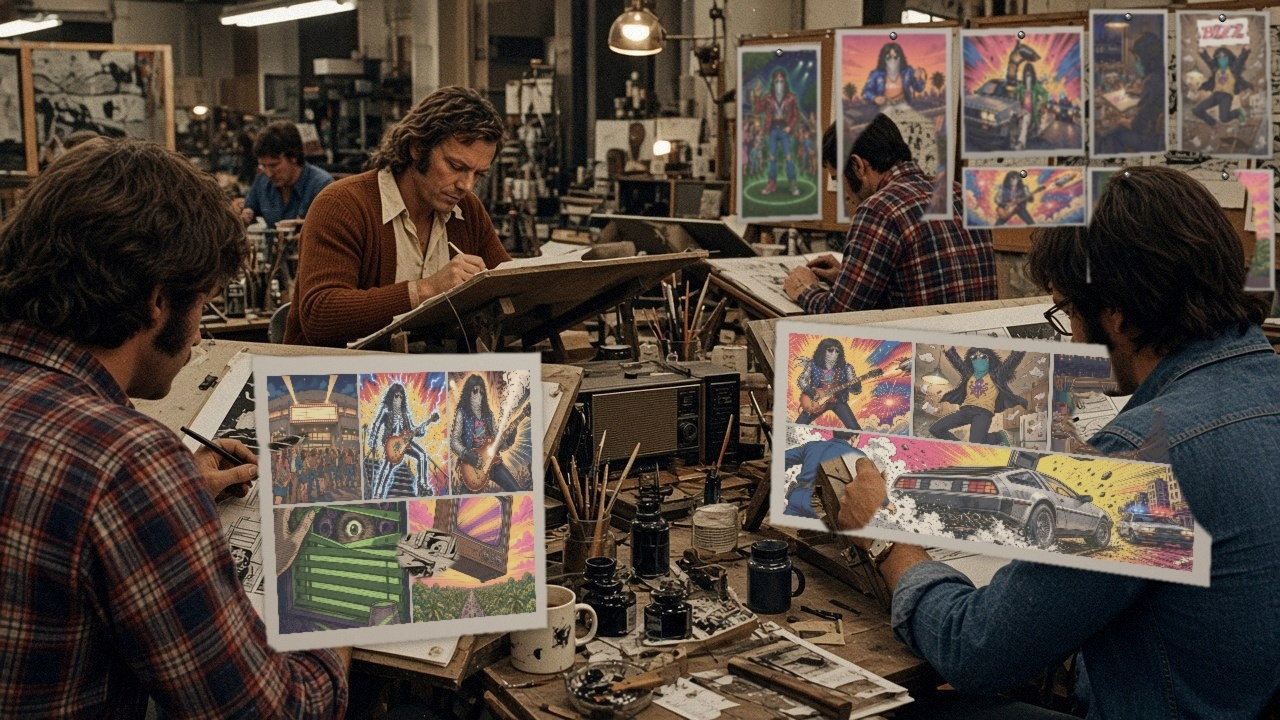
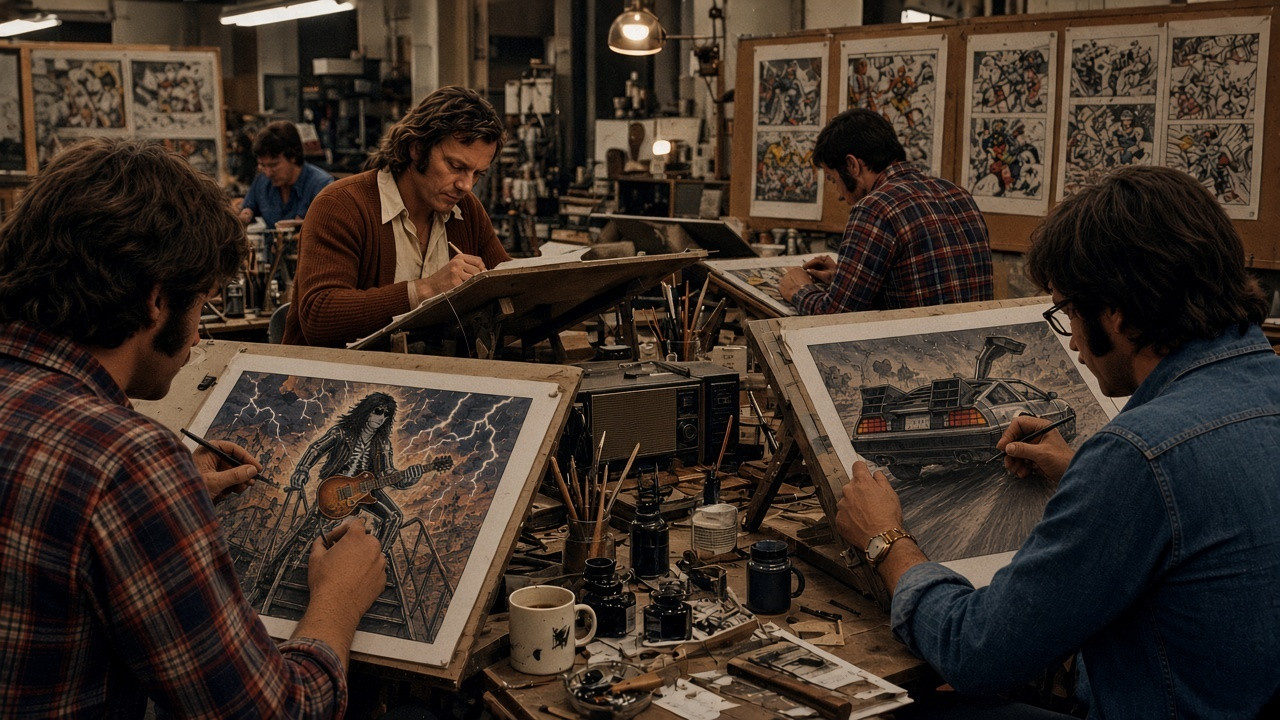
Studio visit: regenerate the inkers photo so colour pages lie on the boards.
Replace the pasted composite with a full-frame documentary shot of the art department, pages sitting flat on the sloped easels.

diff --git a/preview-wy4u7thzbj5o/behind-the-scenes/index.html b/preview-wy4u7thzbj5o/behind-the-scenes/index.html
@@ -92,8 +92,8 @@
     <div class="art-body">
       <figure class="art-pic">
         <picture>
-          <source srcset="img/bts-inkers.webp?v=3" type="image/webp">
-          <img src="img/bts-inkers.jpg?v=3" width="1280" height="720" alt="A 1970s comic-art studio: illustrators at sloping drafting tables colour pages from the Ace stories — a lightning-struck staircase, a glowing guitar, a gull-wing car, and colour covers pinned to the wall — with brushes, ink bottles and a radio on the table, while the Ad Man in a rust cardigan works at a board in the middle" loading="lazy">
+          <source srcset="img/bts-inkers.webp?v=4" type="image/webp">
+          <img src="img/bts-inkers.jpg?v=4" width="1280" height="720" alt="A 1970s comic-art studio: illustrators at sloping drafting tables colour pages from the Ace stories — a lightning-struck staircase, a glowing guitar, a gull-wing car, and colour covers pinned to the wall — with brushes, ink bottles and a radio on the table, while the Ad Man in a rust cardigan works at a board in the middle" loading="lazy">
         </picture>
         <figcaption>The art department, Wednesday morning. Ellis Brennan, left, and Sid Rosario, right, are colouring the next issue — the site’s own Ace stories, still without a real rock star’s face. Studio policy, and also the lawyers’. The Ad Man, in the cardigan, “just wanted to fix a shadow.”</figcaption>
       </figure>
